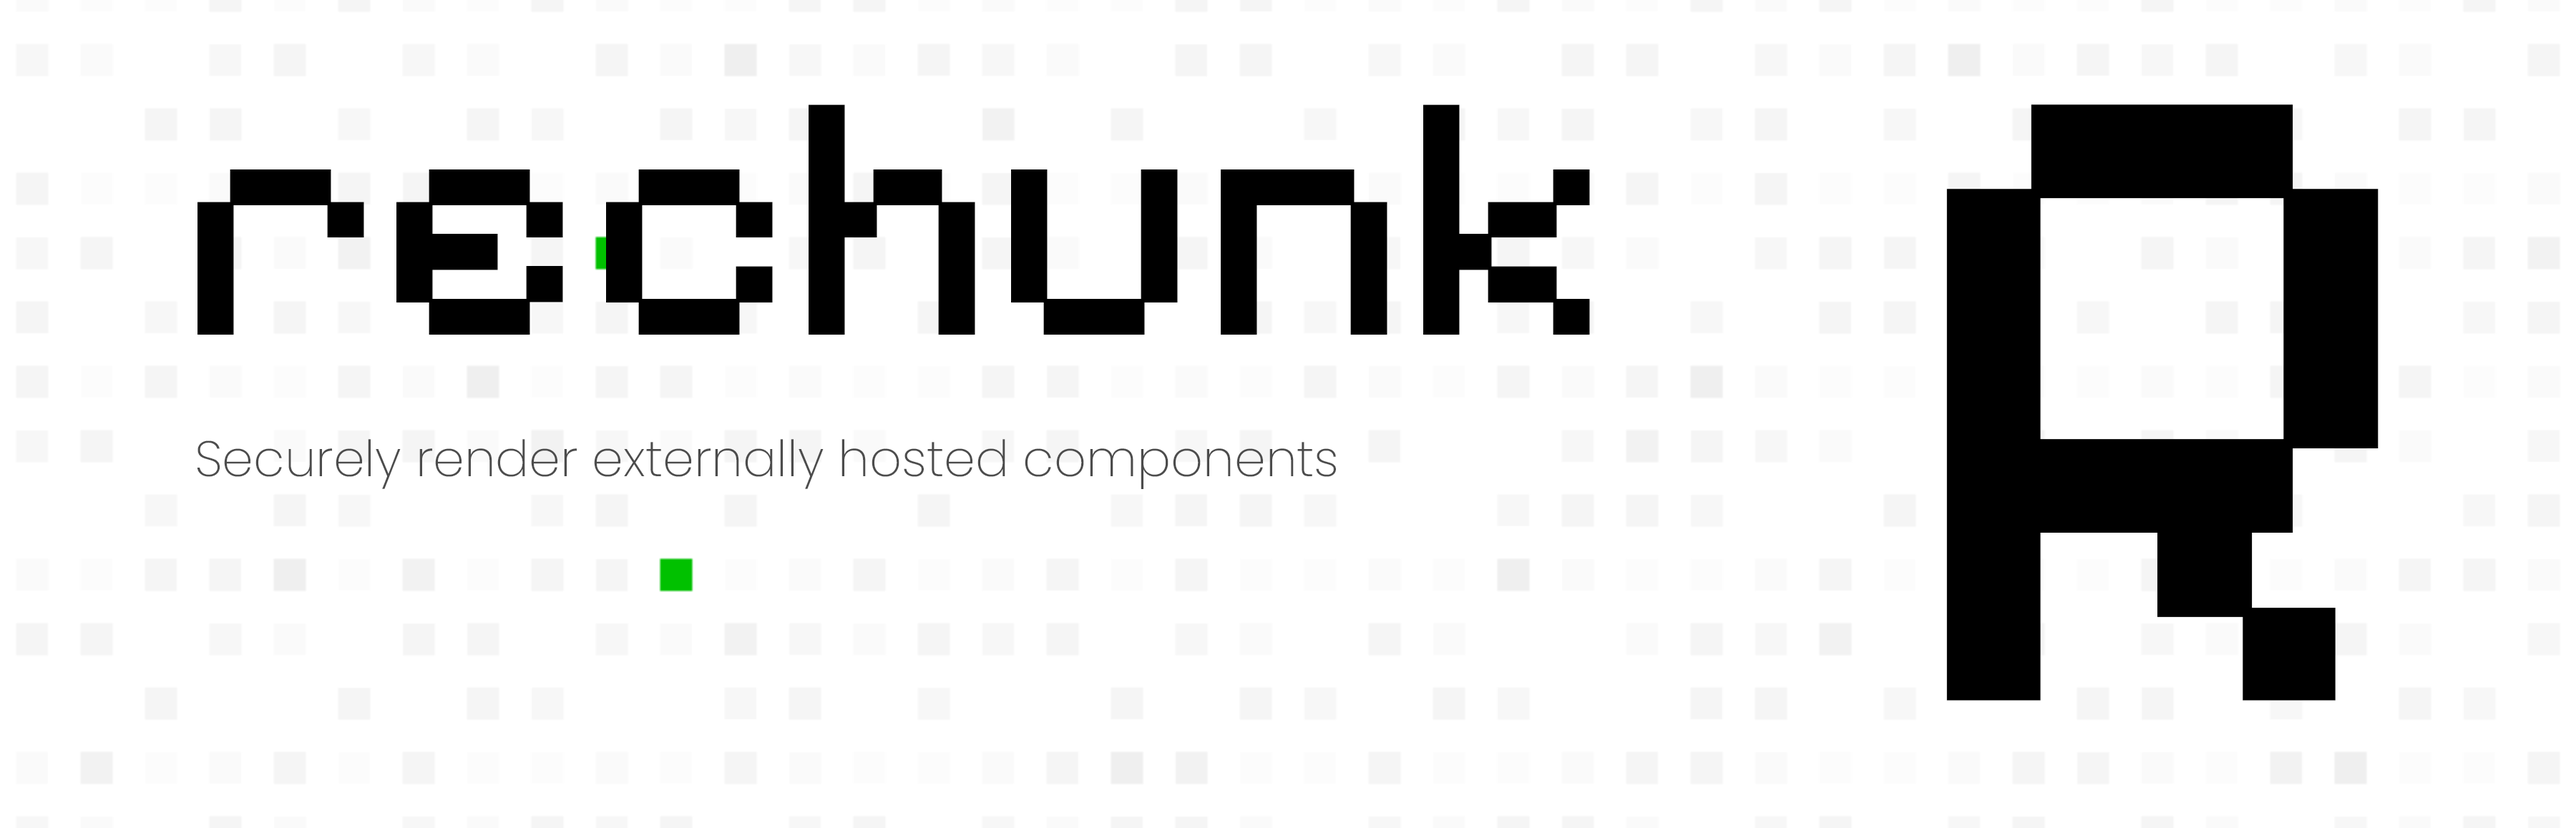
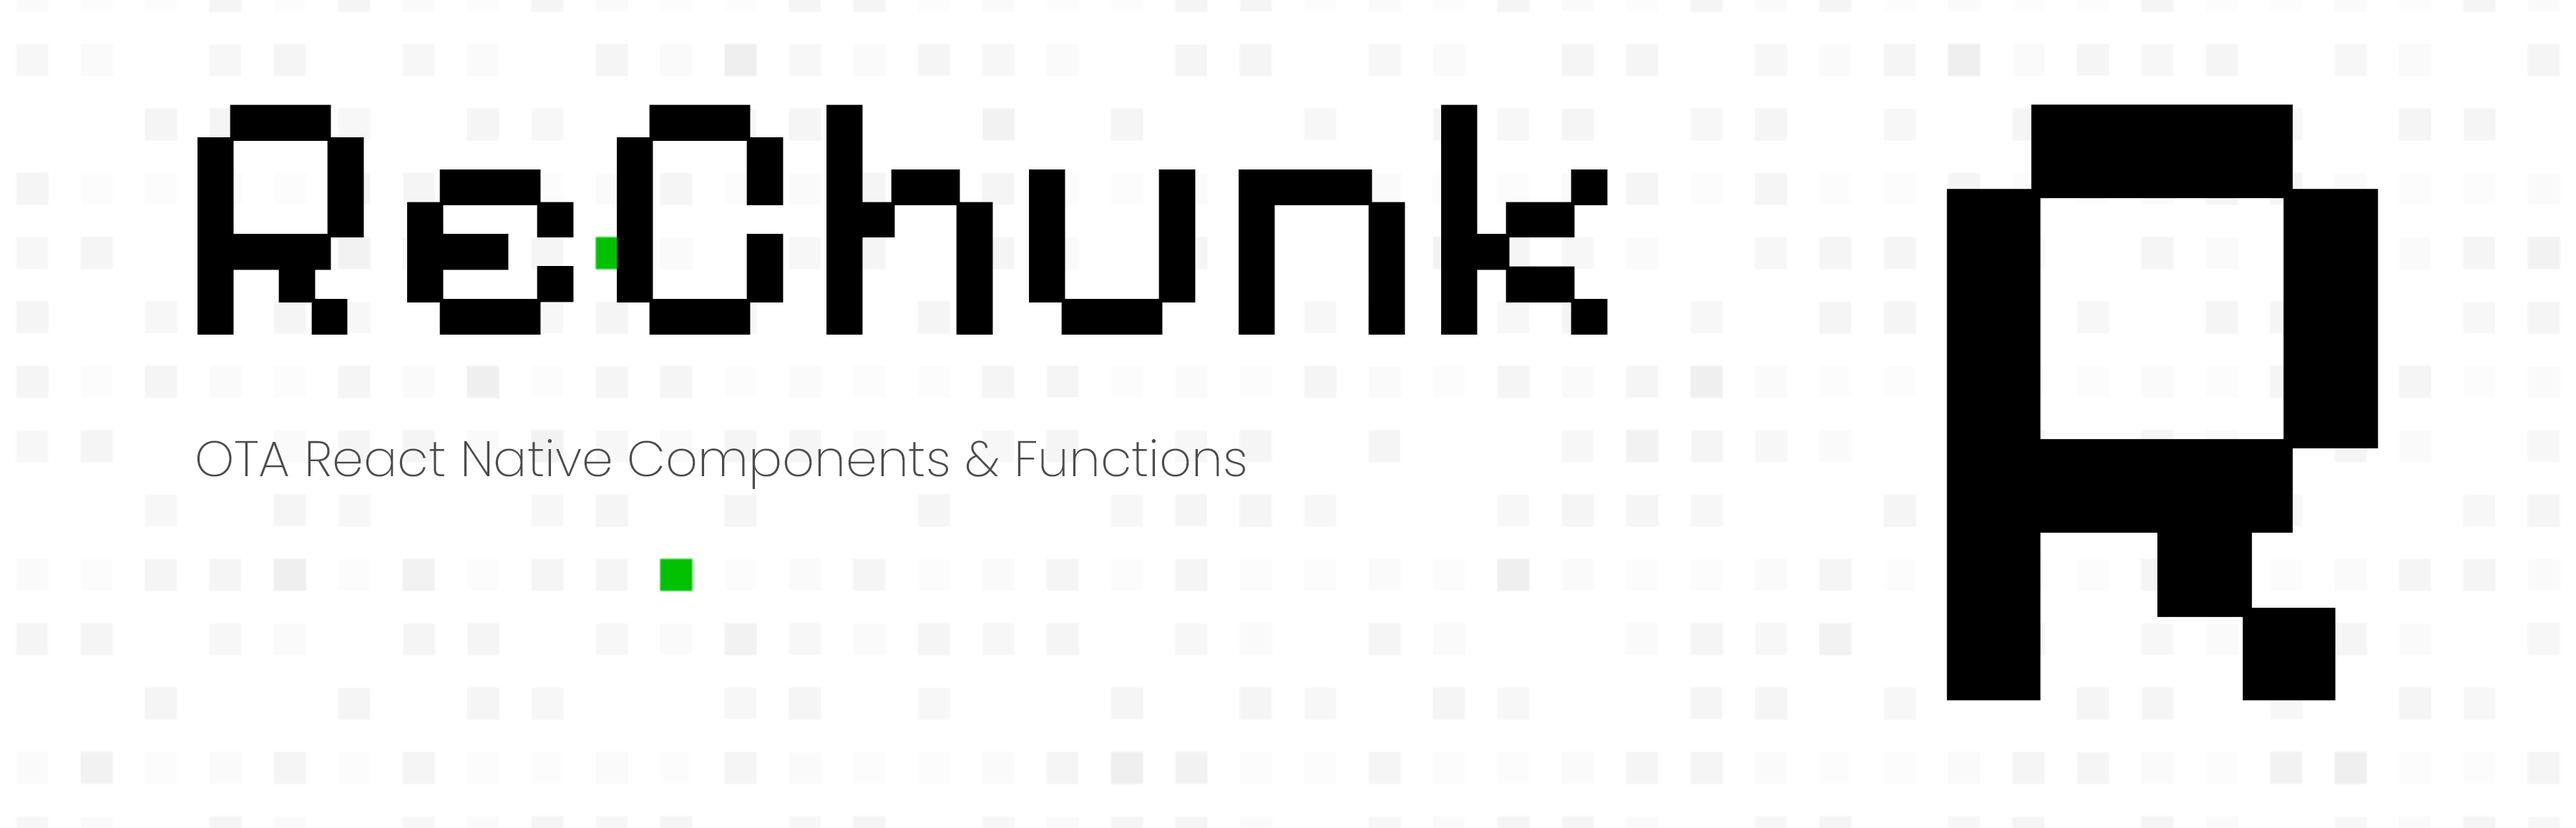
feat(assets): update README.md

Changed region(s): [[0.0622, 0.1244, 0.6222, 0.4041], [0.0622, 0.5285, 0.5289, 0.5907]]

diff --git a/README.md b/README.md
@@ -1,29 +1,151 @@
-# ReChunk
-
 <picture>
   <img alt="ReChunk Banner" src="./.github/assets/hero.png">
 </picture>
 
+<br/>
+<br/>
+
+<div align="center">
+<a href="https://www.npmjs.com/package/@rechunk/core"><img src="https://img.shields.io/npm/v/@rechunk/core.svg?style=flat" alt="npm version"></a>
+<a href="https://www.npmjs.com/package/@rechunk/core"><img src="https://img.shields.io/npm/dm/@rechunk/core.svg?style=flat" alt="Downloads"></a>
+<a href="https://bundlephobia.com/package/@rechunk/core"><img src="https://img.shields.io/bundlephobia/minzip/@rechunk/core" alt="Bundle Size"></a>
+<a href="https://www.typescriptlang.org/"><img src="https://img.shields.io/badge/TypeScript-Ready-blue.svg" alt="TypeScript"></a>
+<a href="LICENSE.md"><img src="https://img.shields.io/github/license/crherman7/rechunk.svg" alt="License"></a>
+<a href="CONTRIBUTING.md"><img src="https://img.shields.io/badge/PRs-welcome-brightgreen.svg" alt="PRs Welcome"></a>
+</div>
+
+<br/>
+
+<div align="center">
+  <p><strong>ReChunk is a lightweight React Native library that enables secure over-the-air updates and dynamic component loading, allowing you to update your app's UI without app store submissions.</strong></p>
+</div>
+
+<div align="center">
+  <a aria-label="rechunk.xyz" href="https://rechunk.xyz">Website</a>
+  &nbsp;•&nbsp;
+  <a aria-label="ReChunk Documentation" href="https://rechunk.xyz/docs/">Documentation</a>
+  &nbsp;•&nbsp;
+  <a aria-label="ReChunk Discord Community" href="https://discord.gg/xFhuxjwhss">Discord Community</a>
+</div>
+
+<br/>
+
+## Why ReChunk?
+
+- 📱 **Bypass App Store Updates**: Deploy UI changes without waiting for app store approval
+- 🔄 **Instant Updates**: Push changes to all users simultaneously
+- 🛠 **Developer Friendly**: Simple API with TypeScript support
+- 🏃 **Performance First**: Minimal bundle size impact and optimized loading
+
+## Installation
+
+```bash
+npm install @rechunk/core
+npm install -D @rechunk/cli @rechunk/babel-plugin @rechunk/metro-config
+
+# or
+
+yarn add @rechunk/core
+yarn add -D @rechunk/cli @rechunk/babel-plugin @rechunk/metro-config
+```
+
+## Quick Example
+
+```tsx
+'use rechunk';
+
+import {View, Text, TouchableOpacity, StyleSheet} from 'react-native';
+import React, {useState} from 'react';
+
+interface FeatureCardProps {
+  title: string;
+  description: string;
+  onPress?: () => void;
+}
+
+export default function RemoteFeatureCard({
+  title = 'New Feature',
+  description = 'Try out our latest update!',
+  onPress,
+}: FeatureCardProps) {
+  const [pressed, setPressed] = useState(false);
+
+  const handlePress = () => {
+    setPressed(true);
+    onPress?.();
+  };
+
+  return (
+    <TouchableOpacity
+      style={[styles.container, pressed && styles.pressed]}
+      onPress={handlePress}>
+      <View style={styles.content}>
+        <Text style={styles.title}>{title}</Text>
+        <Text style={styles.description}>{description}</Text>
+      </View>
+    </TouchableOpacity>
+  );
+}
+
+const styles = StyleSheet.create({
+  container: {
+    backgroundColor: '#FFFFFF',
+    borderRadius: 12,
+    padding: 16,
+    margin: 8,
+    shadowColor: '#000',
+    shadowOffset: {
+      width: 0,
+      height: 2,
+    },
+    shadowOpacity: 0.25,
+    shadowRadius: 3.84,
+    elevation: 5,
+  },
+  pressed: {
+    opacity: 0.8,
+    transform: [{scale: 0.98}],
+  },
+  content: {
+    gap: 8,
+  },
+  title: {
+    fontSize: 18,
+    fontWeight: 'bold',
+    color: '#000000',
+  },
+  description: {
+    fontSize: 14,
+    color: '#666666',
+  },
+});
+```
+
 ## Features
 
-- **🚀 Remote Components**: Effortlessly render externally bundled components within your React Native application. Whether your components reside on remote servers or cloud platforms, rechunk seamlessly integrates them into your project, enabling dynamic and versatile UI experiences.
-- **🌎 Host Agnostic**: Enjoy unparalleled flexibility in hosting your components with rechunk. Whether it's on your own servers, cloud providers, or third-party platforms, rechunk remains agnostic to hosting environments.
-- **🔒 Secure**: Prioritize security with rechunk's robust digital signature verification mechanism. Every component rendered through rechunk undergoes stringent validation, ensuring that only trusted and verified components are integrated into your application.
+- **🚀 Over-The-Air Updates**: Deploy React Native components instantly without app store submissions. Push UI changes directly to your users in real-time.
+- **⚡ Zero-Config Hosting**: Host your components anywhere - from S3 to your own servers. Zero vendor lock-in, maximum flexibility.
+- **🔒 Built-in Security**: Industry-standard digital signatures verify every component. Keep your dynamic updates secure and your users protected.
 
 ## Getting Started
 
-Go to the [Quick Start](https://crherman7.github.io/rechunk/) to get started.
+Visit our [Quick Start Guide](https://rechunk.xyz/docs/) to begin using ReChunk in your project.
 
-## Contribution
+## Community
 
-Please read the [Contributing Guide](./CONTRIBUTING.md) and let's build ReChunk together.
+Join our growing community! We're excited to help and hear your feedback:
 
-If you have any questions, you can open an issue to communicate with us.
+- 💬 Join our [Discord](https://discord.gg/xFhuxjwhss) for real-time discussions
+- ⭐ Star us on [GitHub](https://github.com/crherman7/rechunk) to show your support
 
-### Code of Conduct
+## Contributing
 
-Please check [Code of Conduct](./CODE_OF_CONDUCT.md) for more details.
+Please read our [Contributing Guide](./CONTRIBUTING.md) and help us build ReChunk together. For questions or feedback, feel free to open an issue.
 
-### License
+## Code of Conduct
+
+Please review our [Code of Conduct](./CODE_OF_CONDUCT.md) for guidelines on community interaction.
+
+## License
 
 ReChunk is licensed under the [MIT License](./LICENSE.md).
